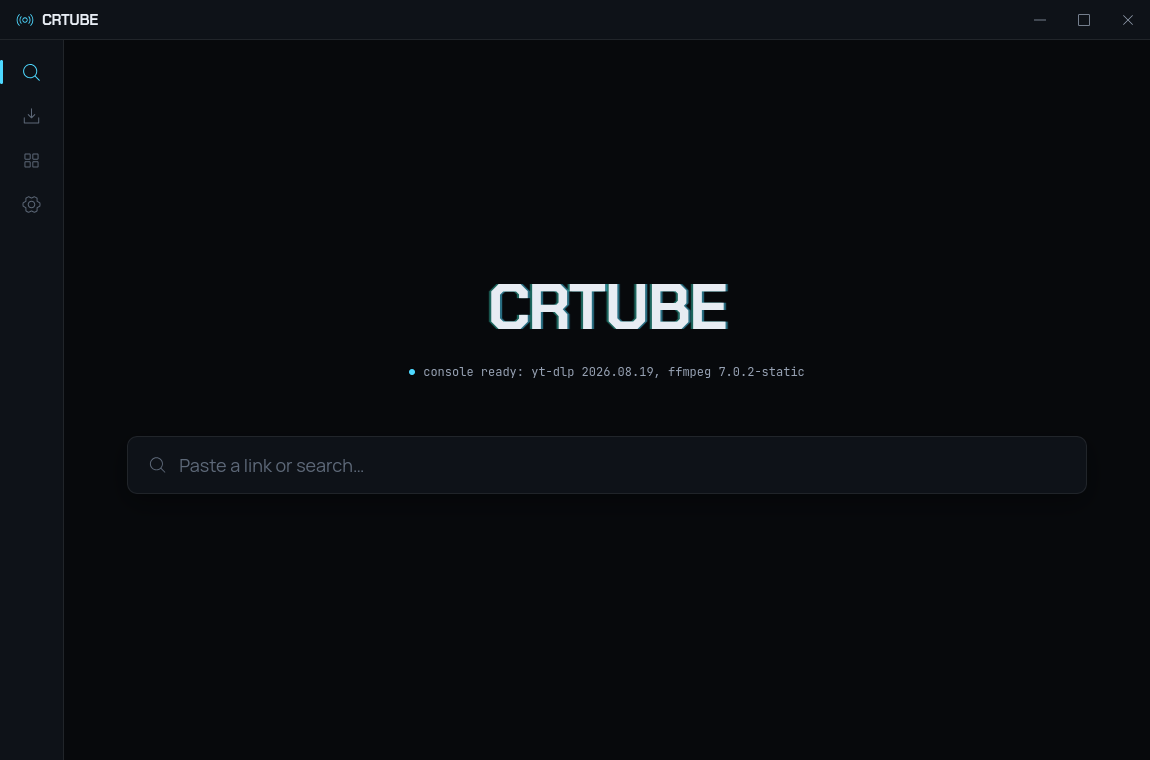
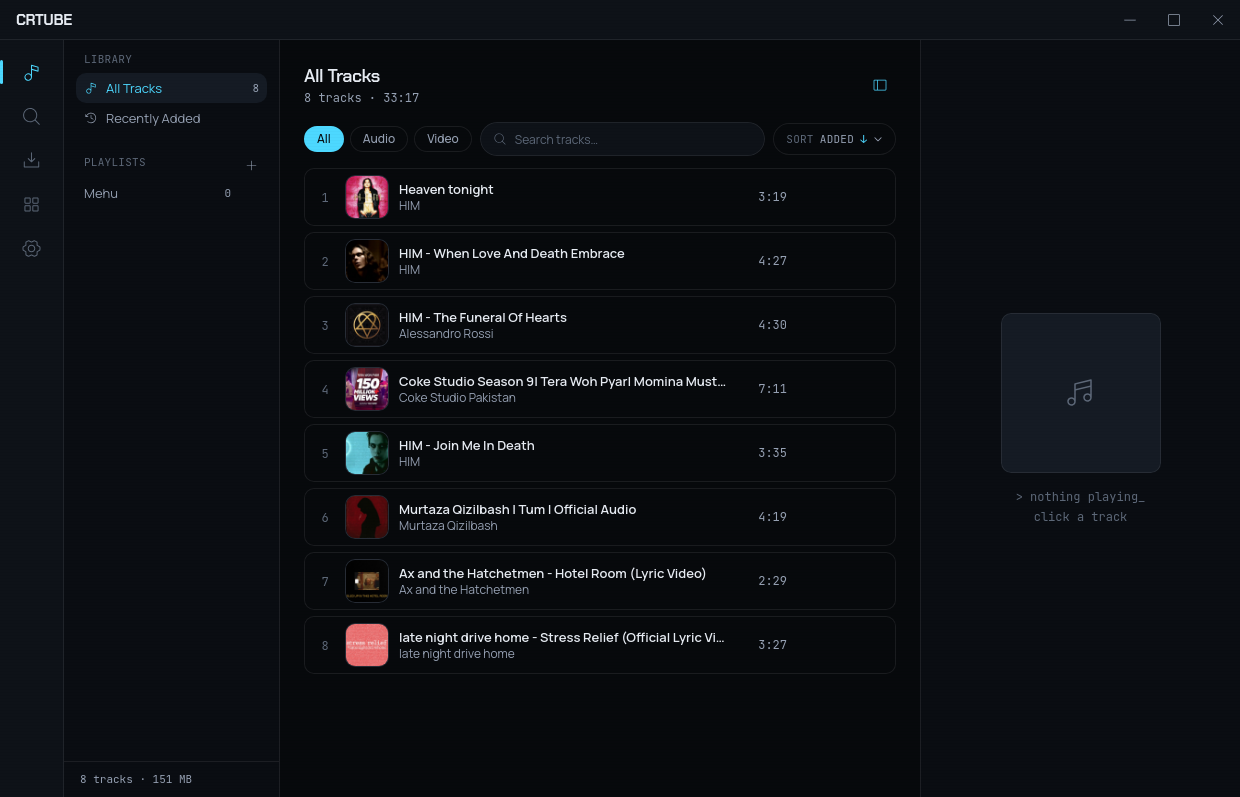
docs: refresh README screenshot and bump version to 0.1.1
- Replace docs/home.png with a current capture of the All Tracks home view.
- Update download filenames in README to 0.1.1.
- GitHub repo description refreshed to lead with the CRTube name.

diff --git a/README.md b/README.md
@@ -40,8 +40,8 @@ queue downloads with live progress — everything runs locally through
 Prebuilt installers for Linux are attached to the latest
 [GitHub release](https://github.com/SlyHammad18/CRTube/releases):
 
-- **Debian / Ubuntu** — `CRTube_0.1.0_amd64.deb`
-- **Portable Linux** — `CRTube_0.1.0_amd64.AppImage` (make executable, then run)
+- **Debian / Ubuntu** — `CRTube_0.1.1_amd64.deb`
+- **Portable Linux** — `CRTube_0.1.1_amd64.AppImage` (make executable, then run)
 
 Windows (NSIS) installers are produced automatically when built on Windows.
 
